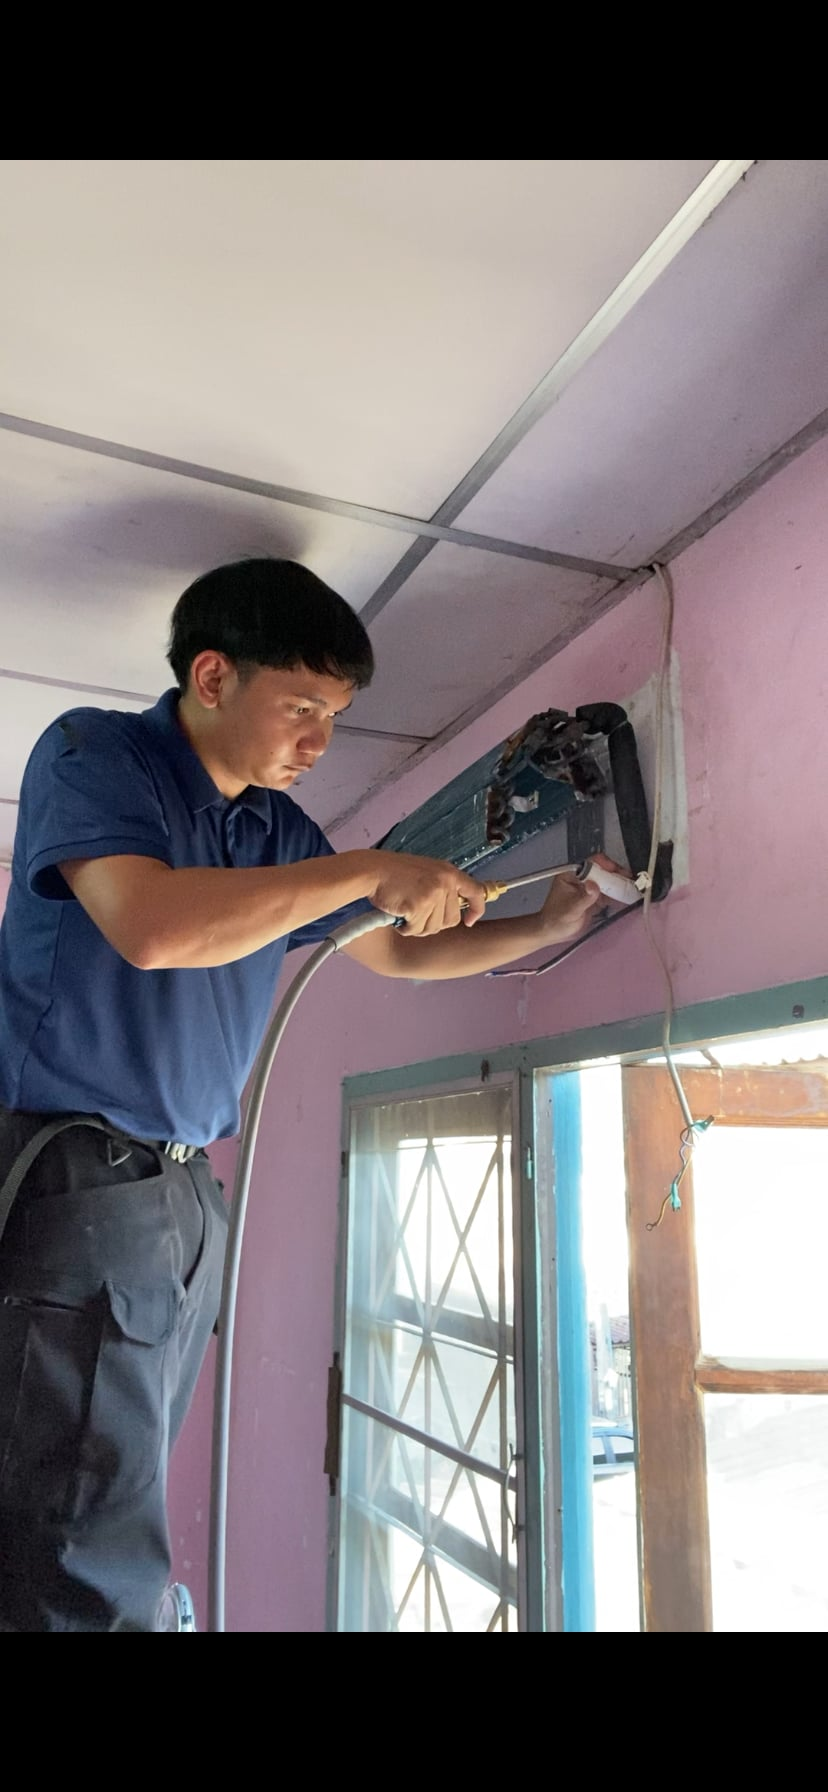
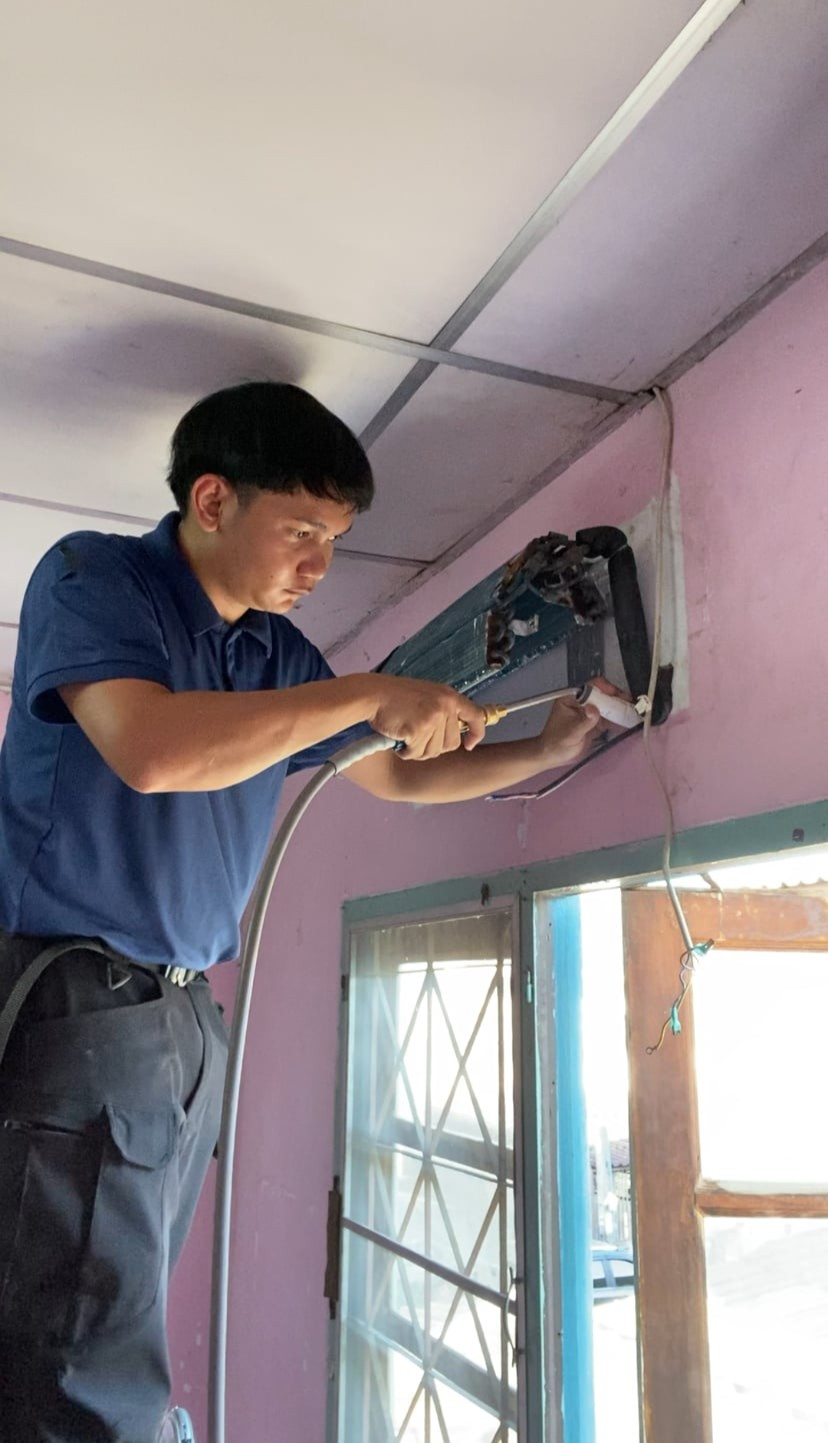
feat: add MasonryGallery component for improved image display in ImagesActivity

diff --git a/src/components/common/ActivityMasonry.tsx b/src/components/common/ActivityMasonry.tsx
@@ -1,0 +1,246 @@
+"use client";
+
+import {
+    useCallback,
+    useEffect,
+    useMemo,
+    useState,
+} from "react";
+
+type MasonryGalleryProps = {
+    images: string[];
+    showAll?: boolean;
+    previewCountDesktop?: number;
+    previewCountMobile?: number;
+    gap?: number;
+    onImageClick?: (index: number) => void;
+    altPrefix?: string;
+};
+
+type ImageInfo = {
+    src: string;
+    index: number;
+    width: number;
+    height: number;
+};
+
+type Column = ImageInfo[];
+
+export default function MasonryGallery({
+    images,
+    showAll = true,
+    previewCountDesktop = 8,
+    previewCountMobile = 4,
+    gap = 12,
+    onImageClick,
+    altPrefix = "รูปภาพ",
+}: MasonryGalleryProps) {
+    const [columnCount, setColumnCount] = useState(1);
+    const [imageInfo, setImageInfo] = useState<ImageInfo[]>([]);
+    const [isLoaded, setIsLoaded] = useState(false);
+
+    const getColumnCount = useCallback((width: number) => {
+        if (width >= 1024) return 4;
+        if (width >= 768) return 3;
+        if (width >= 640) return 2;
+
+        return 1;
+    }, []);
+
+    useEffect(() => {
+        const handleResize = () => {
+            setColumnCount(
+                getColumnCount(window.innerWidth)
+            );
+        };
+
+        handleResize();
+
+        window.addEventListener(
+            "resize",
+            handleResize
+        );
+
+        return () => {
+            window.removeEventListener(
+                "resize",
+                handleResize
+            );
+        };
+    }, [getColumnCount]);
+
+    useEffect(() => {
+        let cancelled = false;
+
+        const loadImages = async () => {
+            setIsLoaded(false);
+
+            const result = await Promise.all(
+                images.map(
+                    (src, index) =>
+                        new Promise<ImageInfo>((resolve) => {
+                            const img = new Image();
+
+                            img.onload = () => {
+                                resolve({
+                                    src,
+                                    index,
+                                    width: img.naturalWidth,
+                                    height: img.naturalHeight,
+                                });
+                            };
+
+                            img.onerror = () => {
+                                resolve({
+                                    src,
+                                    index,
+                                    width: 1,
+                                    height: 1,
+                                });
+                            };
+
+                            img.src = `/activity/${src}`;
+                        })
+                )
+            );
+
+            if (!cancelled) {
+                setImageInfo(result);
+                setIsLoaded(true);
+            }
+        };
+
+        loadImages();
+
+        return () => {
+            cancelled = true;
+        };
+    }, [images]);
+
+    const visibleImages = useMemo(() => {
+        if (showAll) {
+            return imageInfo;
+        }
+
+        const count =
+            columnCount >= 4
+                ? previewCountDesktop
+                : previewCountMobile;
+
+        return imageInfo.slice(0, count);
+    }, [
+        imageInfo,
+        showAll,
+        columnCount,
+        previewCountDesktop,
+        previewCountMobile,
+    ]);
+
+    const columns = useMemo<Column[]>(() => {
+        const result: Column[] = Array.from(
+            { length: columnCount },
+            () => []
+        );
+
+        if (!visibleImages.length) {
+            return result;
+        }
+
+        const columnHeights = Array(
+            columnCount
+        ).fill(0);
+
+        for (const image of visibleImages) {
+            const ratio =
+                image.height / image.width;
+
+            let shortestColumn = 0;
+
+            for (
+                let i = 1;
+                i < columnCount;
+                i++
+            ) {
+                if (
+                    columnHeights[i] <
+                    columnHeights[shortestColumn]
+                ) {
+                    shortestColumn = i;
+                }
+            }
+
+            result[shortestColumn].push(image);
+
+            columnHeights[shortestColumn] +=
+                ratio;
+        }
+
+        return result;
+    }, [visibleImages, columnCount]);
+
+    if (!isLoaded) {
+        return (
+            <div className="w-full">
+                <div className="flex gap-3">
+                    {Array.from({
+                        length: columnCount,
+                    }).map((_, index) => (
+                        <div
+                            key={index}
+                            className="flex-1"
+                        />
+                    ))}
+                </div>
+            </div>
+        );
+    }
+
+    return (
+        <div
+            className="flex w-full"
+            style={{
+                gap: `${gap}px`,
+            }}
+        >
+            {columns.map(
+                (column, columnIndex) => (
+                    <div
+                        key={columnIndex}
+                        className="flex min-w-0 flex-1 flex-col"
+                        style={{
+                            gap: `${gap}px`,
+                        }}
+                    >
+                        {column.map((image) => (
+                            <img
+                                key={`${image.src}-${image.index}`}
+                                src={`/activity/${image.src}`}
+                                alt={`${altPrefix} รูปที่ ${
+                                    image.index + 1
+                                }`}
+                                width={image.width}
+                                height={image.height}
+                                className="
+                                    block
+                                    w-full
+                                    h-auto
+                                    rounded-[8px]
+                                    cursor-pointer
+                                    hover:opacity-90
+                                    transition-opacity
+                                "
+                                loading="lazy"
+                                decoding="async"
+                                onClick={() =>
+                                    onImageClick?.(
+                                        image.index
+                                    )
+                                }
+                            />
+                        ))}
+                    </div>
+                )
+            )}
+        </div>
+    );
+}

diff --git a/src/components/common/ImagesActivity.tsx b/src/components/common/ImagesActivity.tsx
@@ -1,6 +1,7 @@
 "use client";
 import { useState, useEffect, useRef } from "react";
 import ImageGallery from "react-image-gallery";
+import MasonryGallery from "./ActivityMasonry";
 import "react-image-gallery/styles/image-gallery.css";
 
 interface ImageSliderProps {
@@ -151,7 +152,7 @@ export default function ImagesActivity({
             <div className={`
                 max-[640px]:hidden
             `}>
-                <div className={`
+                {/* <div className={`
                     columns-1 sm:columns-2 md:columns-3 lg:columns-4 gap-3
                 `}>
                     {images.map((src, i) => (
@@ -170,7 +171,14 @@ export default function ImagesActivity({
                             decoding="async"
                         />
                     ))}
-                </div>
+                </div> */}
+                <MasonryGallery
+                    images={images}
+                    showAll={showAll}
+                    previewCountDesktop={PREVIEW_COUNT_DESKTOP}
+                    previewCountMobile={PREVIEW_COUNT_MOBILE}
+                    altPrefix="ภาพผลงานล้างแอร์และติดตั้งแอร์ในชลบุรี"
+                />
                 <button 
                     type="button" 
                     onClick={() => setShowAll(!showAll)}
